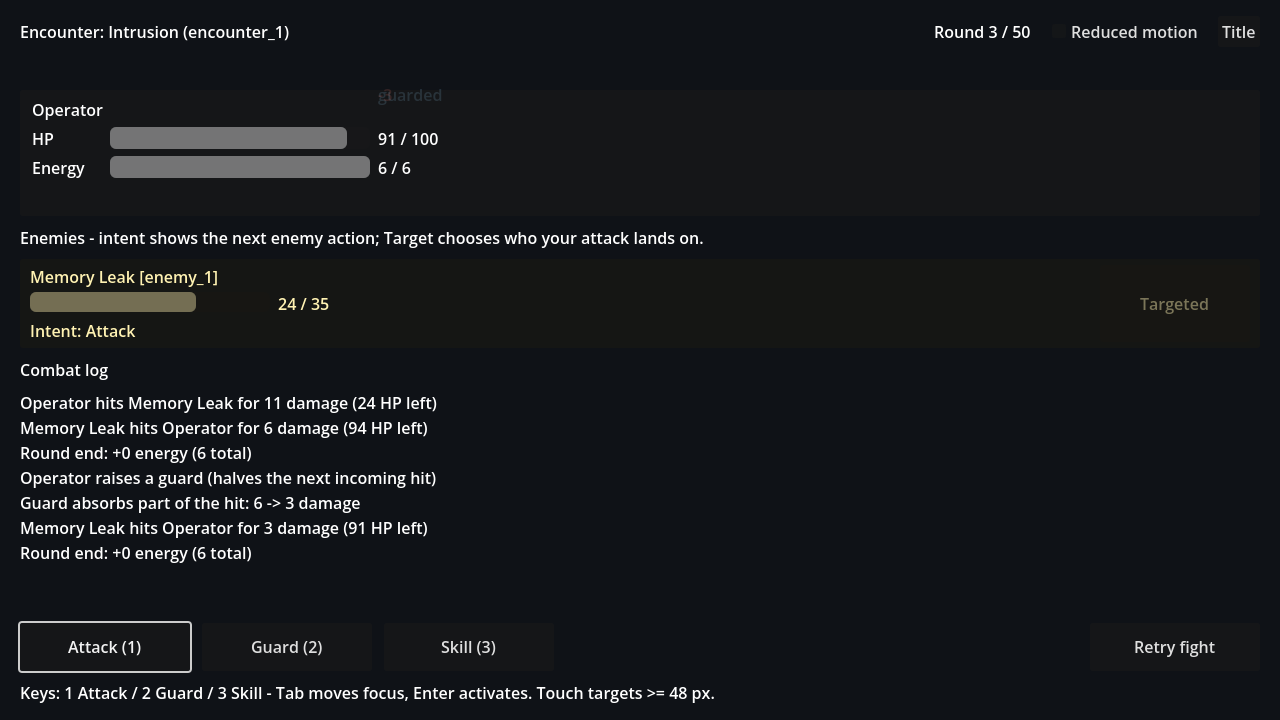
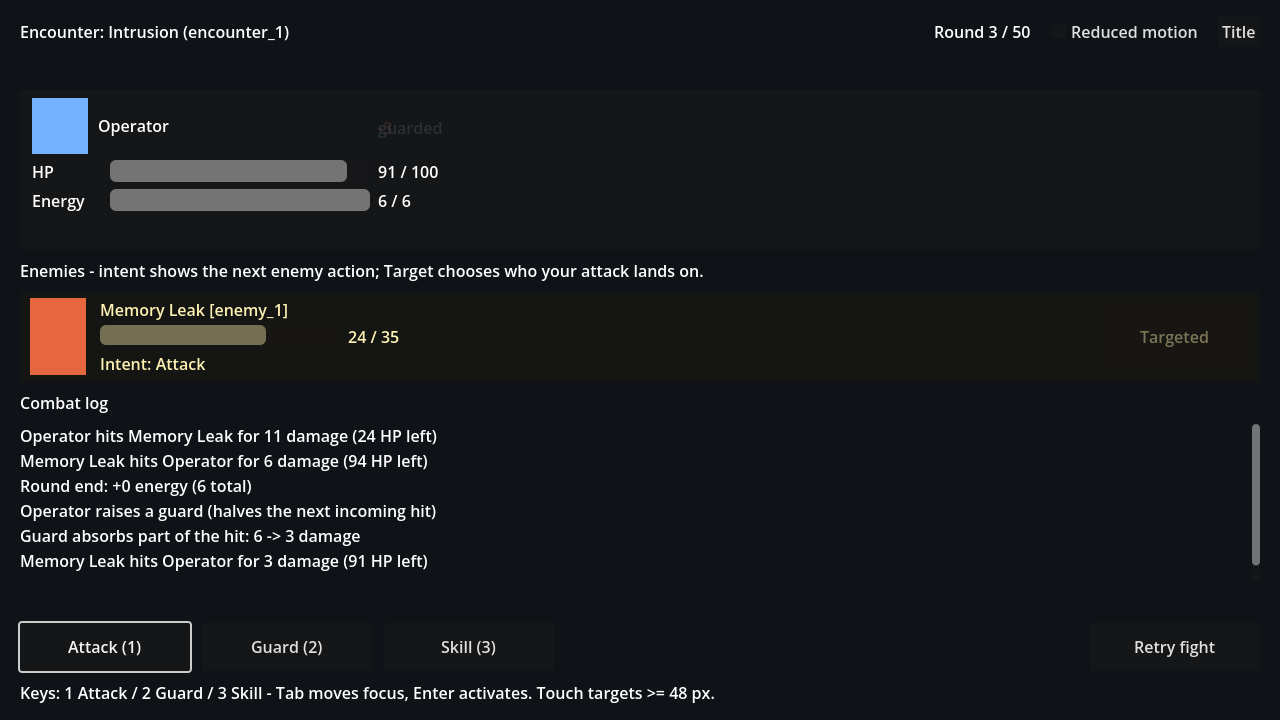
Fix demo entry after owner feedback: clickable start, placeholder characters, crash guidance
Owner report: title screen with nothing clickable and no characters; exit 134.
- Title root/Background/Center had default MOUSE_FILTER_STOP and consumed every
  click before _unhandled_input; they now pass clicks through, and a real
  'Start - enter combat' button (focused by default) makes the way in obvious
- Placeholder character chips (hero blue, enemy orange, boss violet) so the
  scene reads as a game; art phase replaces them later (RZ-016+)
- tools/demo.sh explains signalled exits and points at the Godot crash logs
  (the 134 was a WSLg/Mesa teardown SIGSEGV in swrast_dri.so, not game logic);
  docs/DEMO.md gains an 'If something goes wrong' section
- presentation_tests.gd: 92 -> 104 checks (real click / ENTER / button-press
  transitions, chip checks); desktop title->combat verified with an injected
  real ENTER press (validation/demo/20260921-combat-from-title.png)
- captures regenerated; backlog evidence extended for RZ-007 and RZ-031

diff --git a/runtime-zero/reports/prototype-log.md b/runtime-zero/reports/prototype-log.md
@@ -185,3 +185,34 @@ Checks run (pinned Godot via `source tools/env.sh`):
 | `godot --headless --path game -- --capture /tmp/rz-headless.png` | exit 1 — clear refusal, no file written |
 | `godot --headless --path game --script res://tests/presentation_tests.gd` | exit 0 — 92 checks |
 | `node tools/verify.js` | exit 0 — specification verification passes with RZ-031 done |
+
+## Post-demo feedback fixes (2026-09-21 evening)
+
+Owner report after `tools/demo.sh run`: "I started the demo but only got a screen about the game,
+there was nothing else, no characters no menu" (terminal exit 134).
+
+Findings and fixes:
+
+- **Clicks did nothing.** The full-screen title `Control` and its `Background`/`Center` children kept
+  the default `MOUSE_FILTER_STOP`, so the GUI layer consumed every click before `_unhandled_input`
+  could start the game. Reproduced through the real input pipeline (`Window.push_input`) and pinned by
+  regression tests that inject a real click, a real ENTER press and a real Start-button press.
+  Fixed by `mouse_filter = IGNORE` on all three containers.
+- **No visible way in.** Added a real `Start - enter combat` button (focused by default) plus a hint
+  line: ENTER/Space, a click anywhere and the button all start the fight.
+- **"No characters".** Added placeholder character chips (hero blue, enemies orange, boss violet) —
+  shapes only, per the placeholder-art mandate; the graphics phase (RZ-016+) replaces them.
+- **Exit code 134.** Godot's own crash dump (under the app_userdata logs) shows SIGSEGV inside
+  `swrast_dri.so` (Mesa software rasterizer) after a session that had started normally on D3D12 — an
+  environment teardown crash, not game logic. `tools/demo.sh` now explains signalled exits, points at
+  the log directory and exits with the same code; `docs/DEMO.md` has an "If something goes wrong"
+  section. Guidance verified with a real signalled exit.
+
+Verification (pinned Godot via `source tools/env.sh`):
+
+| Command | Result |
+|---|---|
+| `godot --headless --path game --script res://tests/presentation_tests.gd` | exit 0 — **104 checks** (was 92; +12 interaction/chip checks) |
+| `tools/demo.sh run -- --auto-enter 60 --capture validation/demo/20260921-combat-from-title.png` | exit 0 — real ENTER injected into the live window, title → combat, capture written, no crash dump; repeated run also clean |
+| `tools/demo.sh run --definitely-not-a-flag` | exit 134 with the new guidance lines (real signalled exit) |
+| `run_tests.gd` / `content_tests.gd` / `guard_contract.gd` / `verify.js` | all green |

diff --git a/runtime-zero/docs/DEMO.md b/runtime-zero/docs/DEMO.md
@@ -7,9 +7,11 @@ repository (the runner activates the pinned toolchain itself via
 
 ## What is playable right now (2026-09-21)
 
-- **Title → combat.** The title screen starts the prototype combat encounter on
-  Enter, Space or a click.
+- **Title → combat.** The title screen has a visible **Start - enter combat**
+  button; ENTER/Space or a click anywhere also starts the fight.
 - **One encounter** (`encounter_1`, "Intrusion"): you against one Memory Leak.
+- **Placeholder characters**: the hero and each enemy show a colored chip (real
+  art arrives in the graphics phase; names and text carry the identity too).
 - **Three actions**: Attack, Guard (halves the next incoming hit, single use),
   Skill (costs 3 energy, double attack power). Unavailable actions are disabled
   and say why (e.g. "Needs 3 energy (have 2)").
@@ -65,6 +67,21 @@ backlog evidence.
   Housseyn's playtest notes.
 - A capture never claims more than the build it came from: the manifest states
   the exact playable scope at that commit.
+
+## If something goes wrong
+
+- **The window crashed / the terminal shows exit code 134 or 139.** This
+  machine's WSLg/Mesa graphics stack occasionally crashes while the window is
+  being torn down, after the game itself worked (the 2026-09-21 session that
+  reported "nothing to click" ended this way). The runner now explains the code.
+  Godot writes a log and crash dump under
+  `~/.local/share/godot/app_userdata/Runtime Zero/logs/`. If it repeats, run
+  `wsl --shutdown` in Windows PowerShell, reopen the terminal and retry. If it
+  ever crashes *while you are playing*, note what you were doing - that would be
+  a game bug, not a teardown crash.
+- **Nothing responds to clicks.** Should not happen anymore: the title
+  background passes clicks through and the Start button is a real button. If it
+  does, the log above plus the exact click location helps.
 
 ## Verifying the runner itself
 

diff --git a/runtime-zero/reports/session-20260921-1628-copilot.md b/runtime-zero/reports/session-20260921-1628-copilot.md
@@ -29,3 +29,7 @@
 - **Services still running and how to stop project-owned processes:** none. No servers, watchers or Godot instances left running (all demo/smoke/capture processes exit on their own).
 - **Known failures / skipped checks and why:** none failing. Notes: combat smoke frames differ run-to-run in floater pixels (animation timing) — the deterministic artifact is the printed `state_hash`; only the title capture is byte-stable. `libX11`/`libxkbcommon` loader warnings and ALSA fallback-to-dummy messages are WSLg noise, not project errors. Android/device checks remain future tickets.
 - **Next eligible ticket and exact first action:** **RZ-008 — Connect loadout, encounters, rewards and retry** (outputs `game/src/application/run_service.gd`, `game/scenes/loadout.tscn`, `game/scenes/result.tscn`). First action: `source tools/env.sh && node tools/backlog.js --ready`, read RZ-008 refs (docs/GAME_DESIGN.md loop and equipment rules, docs/ARCHITECTURE.md application layer), then implement loadout selection + run state on top of `RZCombatSession`, keeping all four suites green and captures refreshed via `tools/demo.sh`.
+
+## Post-demo feedback fixes (same session, evening)
+
+Owner ran the demo and reported: a title screen with nothing to click and no visible characters; terminal exit 134. Fixes (commit follows this report): title `Control`/`Background`/`Center` now pass clicks through (`MOUSE_FILTER_IGNORE`) and a real `Start - enter combat` button was added; placeholder character chips added to combat; `tools/demo.sh` explains signalled exits (the 134 was a WSLg/Mesa teardown SIGSEGV in `swrast_dri.so` per Godot's crash dump — not game logic); `docs/DEMO.md` gained an "If something goes wrong" section. Presentation suite 92 → 104 checks; desktop title→combat verified with an injected real ENTER press and captured (`validation/demo/20260921-combat-from-title.png`).
